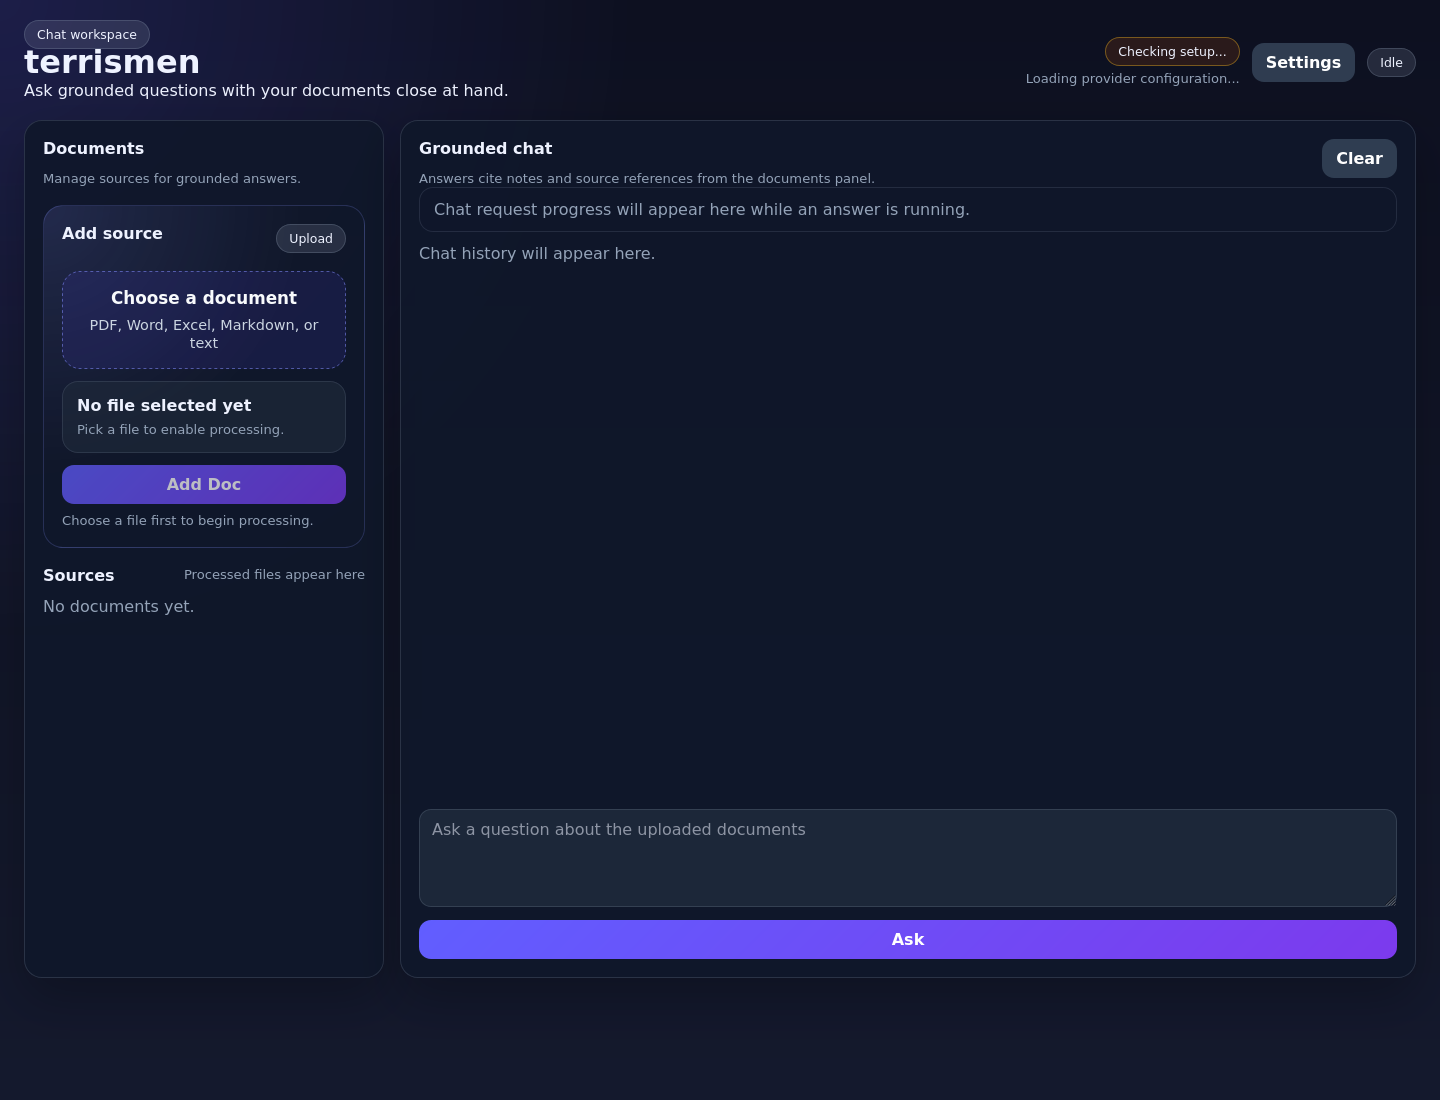
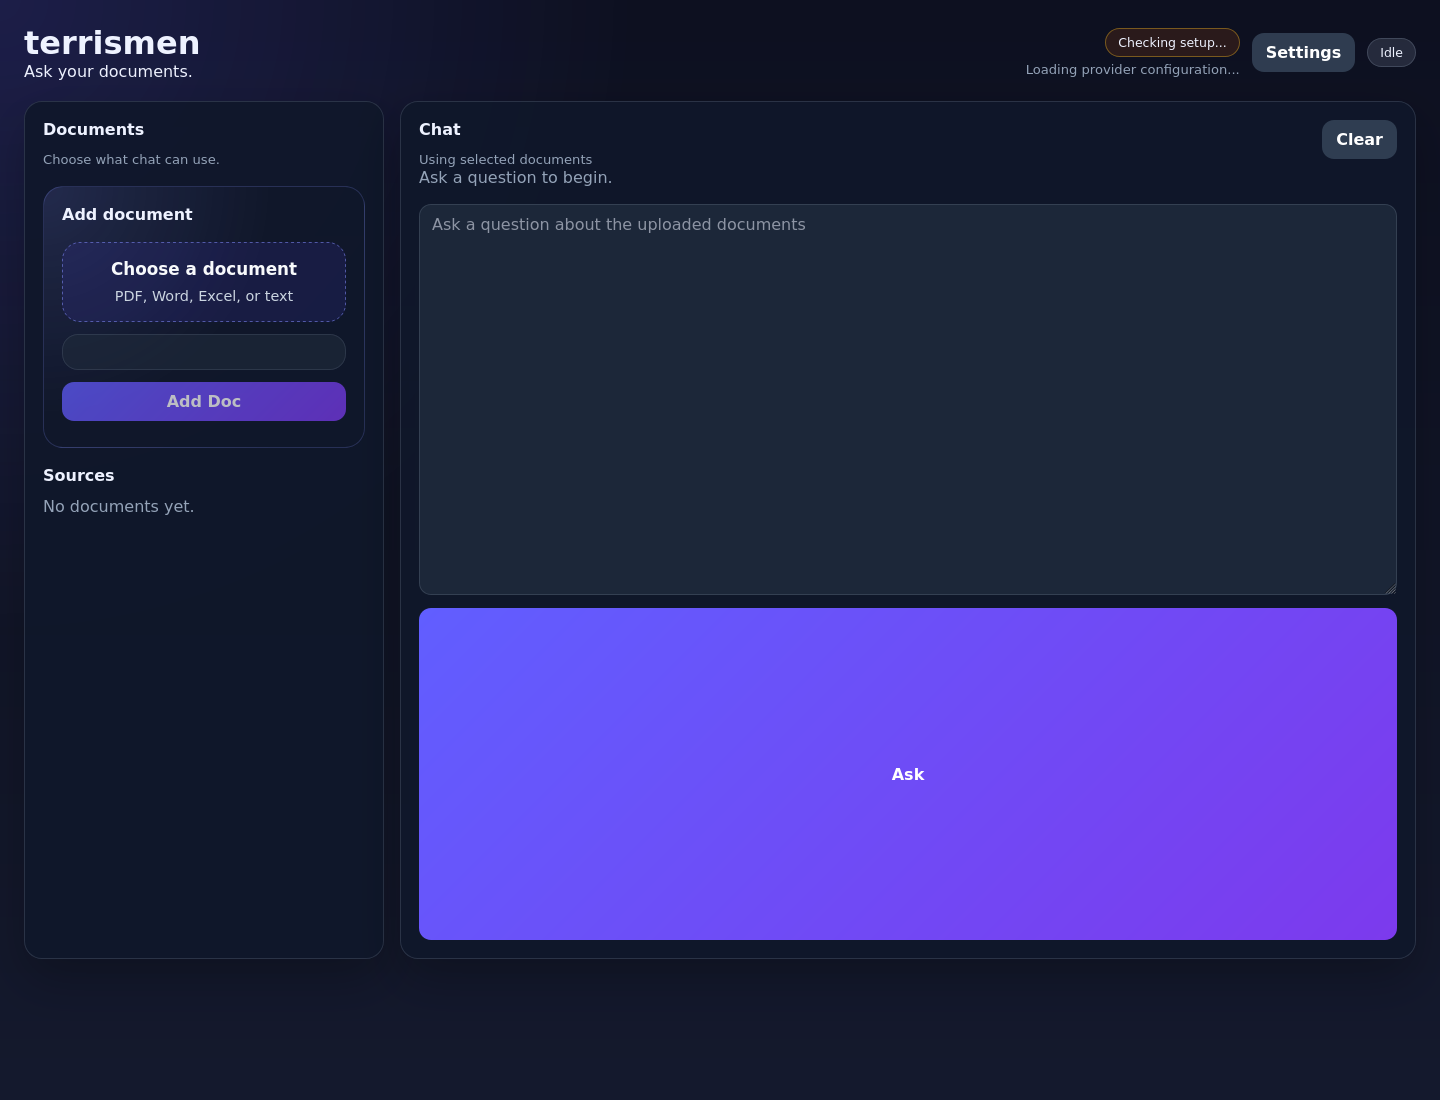
Simplify workspace copy (#27)

Changed region(s): [[0.2812, 0.5255, 0.9688, 0.8964], [0.0, 0.0309, 0.6562, 0.5564], [0.7188, 0.0, 1.0, 0.1855]]

diff --git a/terrismen/web/static/app.js b/terrismen/web/static/app.js
@@ -30,6 +30,7 @@ const elements = {
   chatInput: document.querySelector("#chat-input"),
   chatSubmit: document.querySelector("#chat-submit"),
   chatProgress: document.querySelector("#chat-progress"),
+  chatScopeLabel: document.querySelector("#chat-scope-label"),
   chatLog: document.querySelector("#chat-log"),
   clearChat: document.querySelector("#clear-chat"),
 };
@@ -58,11 +59,12 @@ function describeDocumentProgress(documentItem) {
 }
 
 function renderDocuments() {
+  renderChatScope();
   if (!state.documents.length) {
     elements.documents.className = "document-list empty document-empty-state";
     elements.documents.innerHTML = `
       <strong>No documents yet</strong>
-      <p class="meta">Use Add doc to upload your first source for chat.</p>
+      <p class="meta">Add one to start chatting.</p>
     `;
     return;
   }
@@ -127,7 +129,7 @@ function summarizeSourceNote(note) {
 function renderMessages() {
   if (!state.messages.length) {
     elements.chatLog.className = "chat-log empty";
-    elements.chatLog.textContent = "Chat history will appear here.";
+    elements.chatLog.textContent = "Ask a question to begin.";
     return;
   }
 
@@ -164,11 +166,13 @@ function describeChatProgress(request) {
 
 function renderChatProgress(request) {
   if (!request) {
+    elements.chatProgress.hidden = true;
     elements.chatProgress.className = "chat-progress empty";
-    elements.chatProgress.textContent = "Chat request progress will appear here while an answer is running.";
+    elements.chatProgress.textContent = "";
     return;
   }
 
+  elements.chatProgress.hidden = false;
   elements.chatProgress.className = "chat-progress";
   if (request.status === "failed") {
     elements.chatProgress.textContent = [describeChatProgress(request), request.error || null].filter(Boolean).join(" • ");
@@ -490,8 +494,9 @@ function setChatBusy(isBusy) {
   elements.clearChat.disabled = isBusy;
   elements.chatSubmit.textContent = isBusy ? "Working..." : "Ask";
   if (lockedForIngestion && !isBusy) {
+    elements.chatProgress.hidden = false;
     elements.chatProgress.className = "chat-progress";
-    elements.chatProgress.textContent = "Chat is locked while document ingestion is running.";
+    elements.chatProgress.textContent = "Chat will unlock when processing finishes.";
   } else if (!lockedForIngestion && !isBusy && state.activeChatRequestId === null) {
     renderChatProgress(null);
   }
@@ -499,6 +504,15 @@ function setChatBusy(isBusy) {
 
 function getCheckedDocumentIds() {
   return [...state.checkedDocumentIds];
+}
+
+function renderChatScope() {
+  const count = state.checkedDocumentIds.size;
+  if (!state.documents.length) {
+    elements.chatScopeLabel.textContent = "Add documents to start";
+    return;
+  }
+  elements.chatScopeLabel.textContent = count === 1 ? "Using 1 document" : `Using ${count} documents`;
 }
 
 function setUploadBusy(isBusy) {
@@ -512,9 +526,9 @@ function renderUploadSelection() {
   const selectedFile = elements.uploadInput.files?.[0] ?? null;
   if (!selectedFile) {
     elements.uploadSelection.className = "upload-selection empty";
-    elements.uploadSelectionName.textContent = "No file selected yet";
-    elements.uploadSelectionMeta.textContent = "Pick a file to enable processing.";
-    setUploadFeedback("Choose a file first to begin processing.");
+    elements.uploadSelectionName.textContent = "";
+    elements.uploadSelectionMeta.textContent = "";
+    setUploadFeedback("");
     setUploadBusy(false);
     return;
   }
@@ -522,7 +536,7 @@ function renderUploadSelection() {
   elements.uploadSelection.className = "upload-selection";
   elements.uploadSelectionName.textContent = selectedFile.name;
   elements.uploadSelectionMeta.textContent = `${formatFileSize(selectedFile.size)} • Ready to process`;
-  setUploadFeedback("Ready to start processing.");
+  setUploadFeedback("Ready.");
   setUploadBusy(false);
 }
 
@@ -627,7 +641,7 @@ elements.uploadForm.addEventListener("submit", async (event) => {
     await loadDocuments();
     state.checkedDocumentIds.add(documentItem.id);
     renderDocuments();
-    setUploadFeedback(`Processing started for ${documentItem.original_name}. We will keep the current step visible while ingestion runs.`);
+    setUploadFeedback(`Processing ${documentItem.original_name}...`);
     setStatus(`Started ${documentItem.original_name}`);
   } catch (error) {
     setUploadBusy(false);
@@ -670,7 +684,7 @@ elements.chatForm.addEventListener("submit", async (event) => {
     return;
   }
   if (hasProcessingDocuments()) {
-    setStatus("Chat is locked during document ingestion");
+    setStatus("Chat will unlock when processing finishes");
     setChatBusy(false);
     return;
   }

diff --git a/terrismen/web/static/index.html b/terrismen/web/static/index.html
@@ -10,9 +10,8 @@
     <div class="shell">
       <header class="topbar">
         <div>
-          <span class="tag">Chat workspace</span>
           <h1>terrismen</h1>
-          <p>Ask grounded questions with your documents close at hand.</p>
+          <p>Ask your documents.</p>
         </div>
         <div class="topbar-actions">
           <div class="config-summary">
@@ -29,30 +28,29 @@
           <div class="split-header">
             <div>
               <h2>Documents</h2>
-              <p class="meta">Manage sources for grounded answers.</p>
+              <p class="meta">Choose what chat can use.</p>
             </div>
           </div>
 
           <section class="sidebar-upload" aria-label="Upload documents">
             <div class="split-header">
-              <strong>Add source</strong>
-              <span class="tag">Upload</span>
+              <strong>Add document</strong>
             </div>
             <form id="upload-form" class="stack upload-stack">
               <label class="upload-drop compact-upload-drop">
                 <input id="upload-input" name="file" type="file" accept=".pdf,.doc,.docx,.xls,.xlsx,.txt,.md,.text">
                 <span class="upload-drop-title">Choose a document</span>
-                <span class="upload-drop-subtitle">PDF, Word, Excel, Markdown, or text</span>
+                <span class="upload-drop-subtitle">PDF, Word, Excel, or text</span>
               </label>
 
               <div id="upload-selection" class="upload-selection empty" aria-live="polite">
-                <strong id="upload-selection-name">No file selected yet</strong>
-                <p class="meta" id="upload-selection-meta">Pick a file to enable processing.</p>
+                <strong id="upload-selection-name"></strong>
+                <p class="meta" id="upload-selection-meta"></p>
               </div>
 
               <div class="upload-actions">
                 <button id="upload-submit" type="submit" disabled>Add Doc</button>
-                <p class="meta" id="upload-feedback" aria-live="polite">Choose a file first to begin processing.</p>
+                <p class="meta" id="upload-feedback" aria-live="polite"></p>
               </div>
             </form>
           </section>
@@ -60,7 +58,6 @@
           <section class="document-sidebar-section" aria-label="Document list">
             <div class="split-header">
               <strong>Sources</strong>
-              <span class="meta">Processed files appear here</span>
             </div>
             <div id="documents" class="document-list empty">No documents yet.</div>
           </section>
@@ -69,13 +66,13 @@
         <section class="panel panel-chat chat-workspace" aria-label="Grounded chat">
           <div class="split-header chat-workspace-header">
             <div>
-              <h2>Grounded chat</h2>
-              <p class="meta">Answers cite notes and source references from the documents panel.</p>
+              <h2>Chat</h2>
+              <p class="meta" id="chat-scope-label">Using selected documents</p>
             </div>
             <button id="clear-chat" class="secondary">Clear</button>
           </div>
-          <div id="chat-progress" class="chat-progress empty">Chat request progress will appear here while an answer is running.</div>
-          <div id="chat-log" class="chat-log empty">Chat history will appear here.</div>
+          <div id="chat-progress" class="chat-progress empty" hidden></div>
+          <div id="chat-log" class="chat-log empty">Ask a question to begin.</div>
           <form id="chat-form" class="chat-form">
             <textarea id="chat-input" name="message" rows="4" placeholder="Ask a question about the uploaded documents"></textarea>
             <button id="chat-submit" type="submit">Ask</button>

diff --git a/terrismen/web/static/notes.html b/terrismen/web/static/notes.html
@@ -11,8 +11,8 @@
     <header class="topbar">
       <div>
         <a class="eyebrow" href="/">← Workspace</a>
-        <h1 id="notes-title">Document Notes</h1>
-        <p class="subtitle" id="notes-subtitle">Browse generated notes without crowding the chat workspace.</p>
+        <h1 id="notes-title">Notes</h1>
+        <p class="subtitle" id="notes-subtitle">Notes and unresolved questions.</p>
       </div>
       <div class="topbar-actions">
         <a class="button-link secondary" href="/settings">Settings</a>
@@ -22,10 +22,10 @@
     <section class="panel notes-viewer" aria-labelledby="notes-title">
       <div class="split-header notes-controls">
         <label>
-          Note type
+          Show
           <select id="note-type-filter">
-            <option value="normal">Normal notes</option>
-            <option value="mystery">Mysterious notes</option>
+            <option value="normal">Notes</option>
+            <option value="mystery">Unresolved questions</option>
           </select>
         </label>
         <span id="notes-count" class="tag">Loading…</span>

diff --git a/terrismen/web/static/notes.js b/terrismen/web/static/notes.js
@@ -32,8 +32,8 @@ function escapeHtml(value) {
 function renderEmpty(payload) {
   elements.list.innerHTML = `
     <div class="empty-state">
-      <strong>No ${payload.note_type === "mystery" ? "mysterious" : "normal"} notes yet.</strong>
-      <p>${payload.note_type === "mystery" ? "Mysteries will appear here when ingestion flags unresolved questions." : "Generated notes will appear here after document ingestion completes."}</p>
+      <strong>No ${payload.note_type === "mystery" ? "unresolved questions" : "notes"} yet.</strong>
+      <p>${payload.note_type === "mystery" ? "Questions found during processing will appear here." : "Notes will appear here after processing."}</p>
     </div>
   `;
 }
@@ -68,8 +68,8 @@ function renderMysteryNote(item) {
 
 function renderPayload(payload) {
   elements.title.textContent = payload.document.original_name;
-  elements.subtitle.textContent = `Dedicated notes viewer for ${payload.document.status} document sources.`;
-  elements.count.textContent = `${payload.total} ${payload.note_type === "mystery" ? "mysteries" : "notes"}`;
+  elements.subtitle.textContent = `${payload.document.status} document`;
+  elements.count.textContent = `${payload.total} ${payload.note_type === "mystery" ? "questions" : "notes"}`;
   state.totalPages = payload.total_pages;
   elements.pageLabel.textContent = payload.total_pages ? `Page ${payload.page} of ${payload.total_pages}` : "Page 0 of 0";
   elements.previous.disabled = payload.page <= 1;

diff --git a/terrismen/web/static/settings.html b/terrismen/web/static/settings.html
@@ -10,8 +10,8 @@
     <div class="shell shell-narrow">
       <header class="topbar">
         <div>
-          <h1>Provider settings</h1>
-          <p>Configure the model connection separately so the main workspace stays focused on documents and chat.</p>
+          <h1>Settings</h1>
+          <p>Connect terrismen to a model provider.</p>
         </div>
         <div class="topbar-actions">
           <a class="button-link secondary" href="/">Back to workspace</a>

diff --git a/tests/test_app.py b/tests/test_app.py
@@ -21,8 +21,8 @@ def test_index_links_to_settings_page(tmp_path, monkeypatch) -> None:
     assert response.status_code == 200
     assert 'href="/settings"' in response.text
     assert 'id="settings-form"' not in response.text
-    assert "Chat workspace" in response.text
-    assert "Grounded chat" in response.text
+    assert "Ask your documents." in response.text
+    assert "Using selected documents" in response.text
     assert "Document detail" not in response.text
 
 
@@ -85,7 +85,7 @@ def test_notes_page_serves_static_page(tmp_path, monkeypatch) -> None:
     response = client.get("/documents/123/notes")
 
     assert response.status_code == 200
-    assert "Document Notes" in response.text
+    assert "Notes" in response.text
     assert "note-type-filter" in response.text
 
 